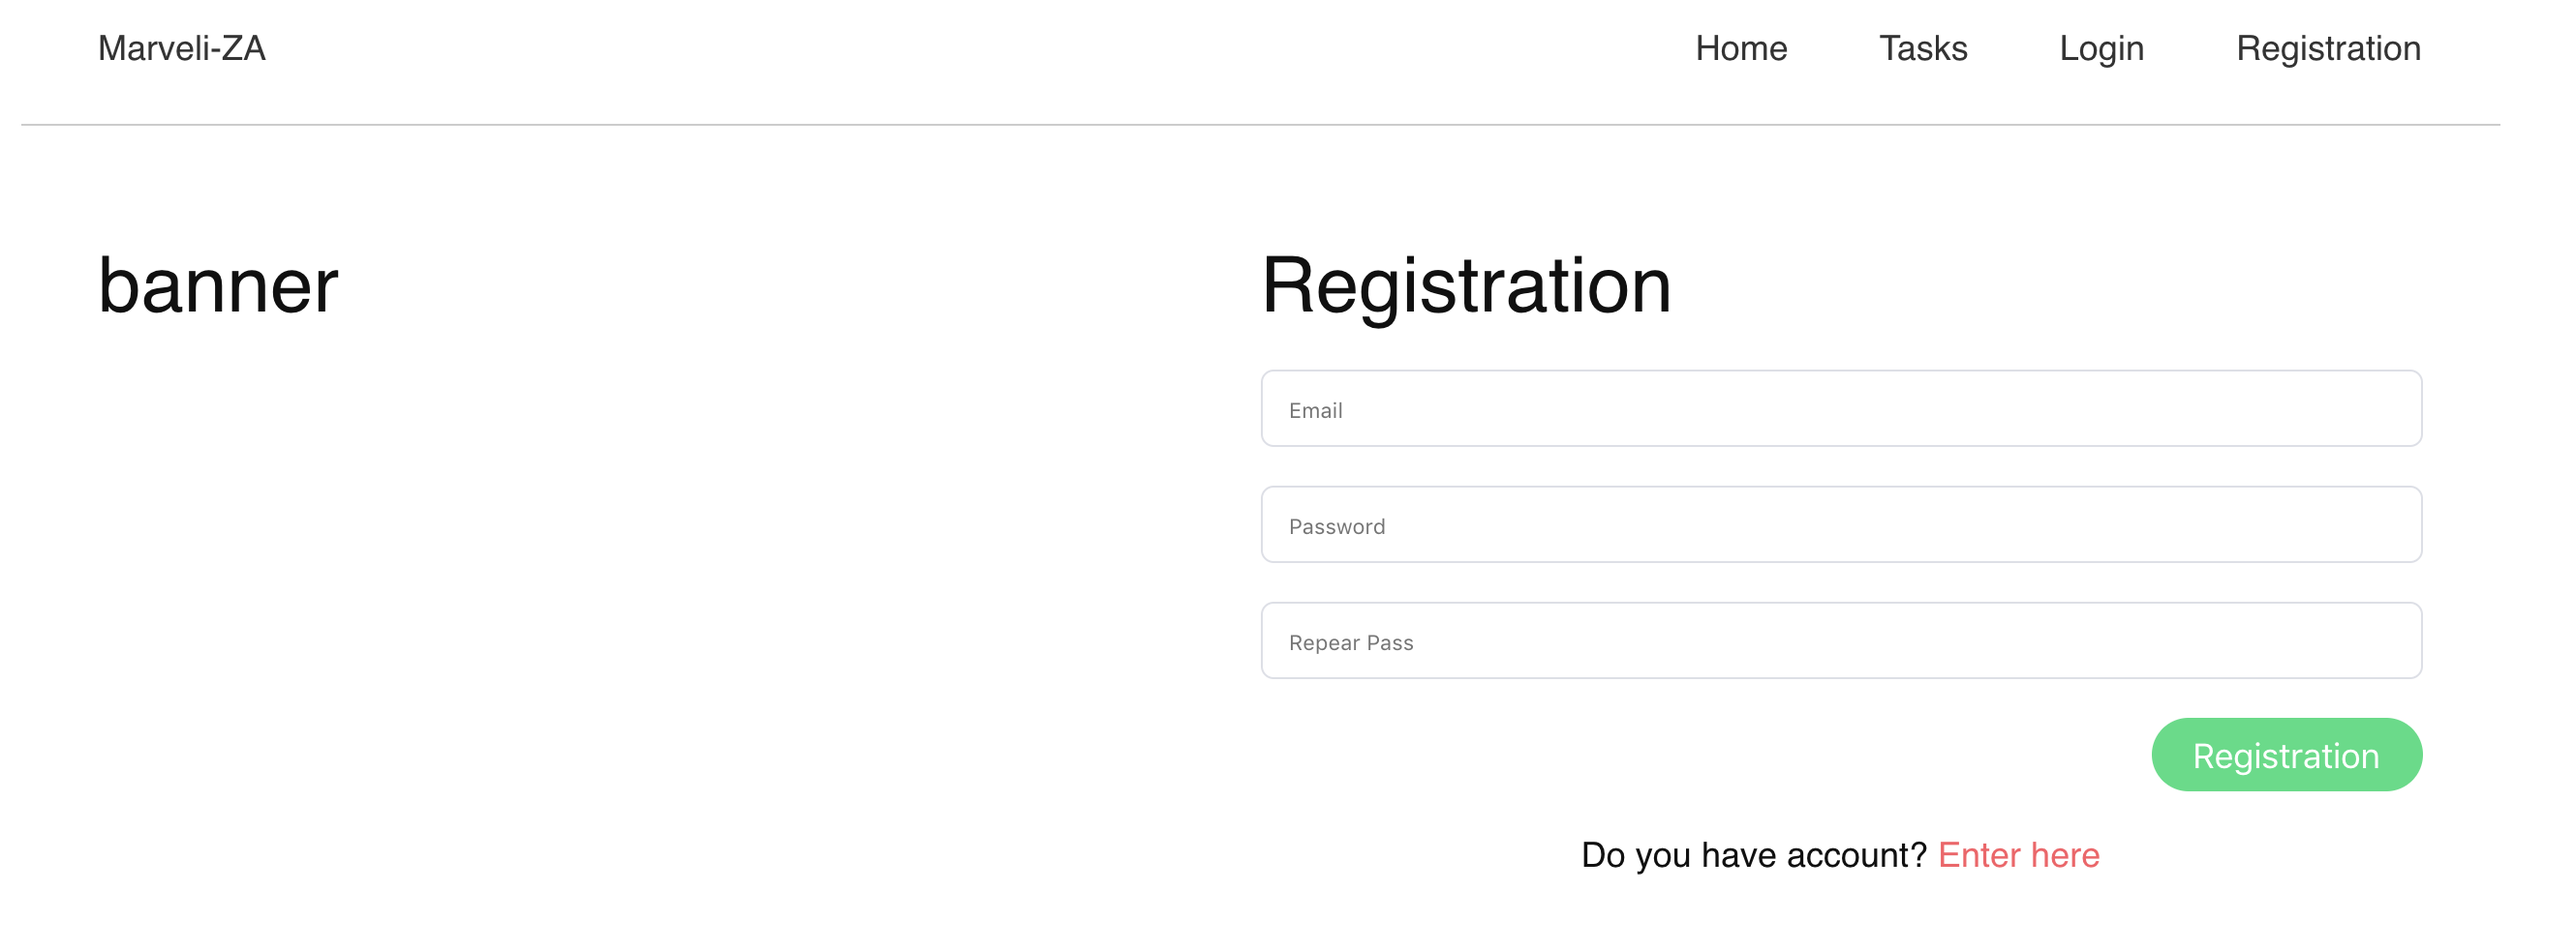
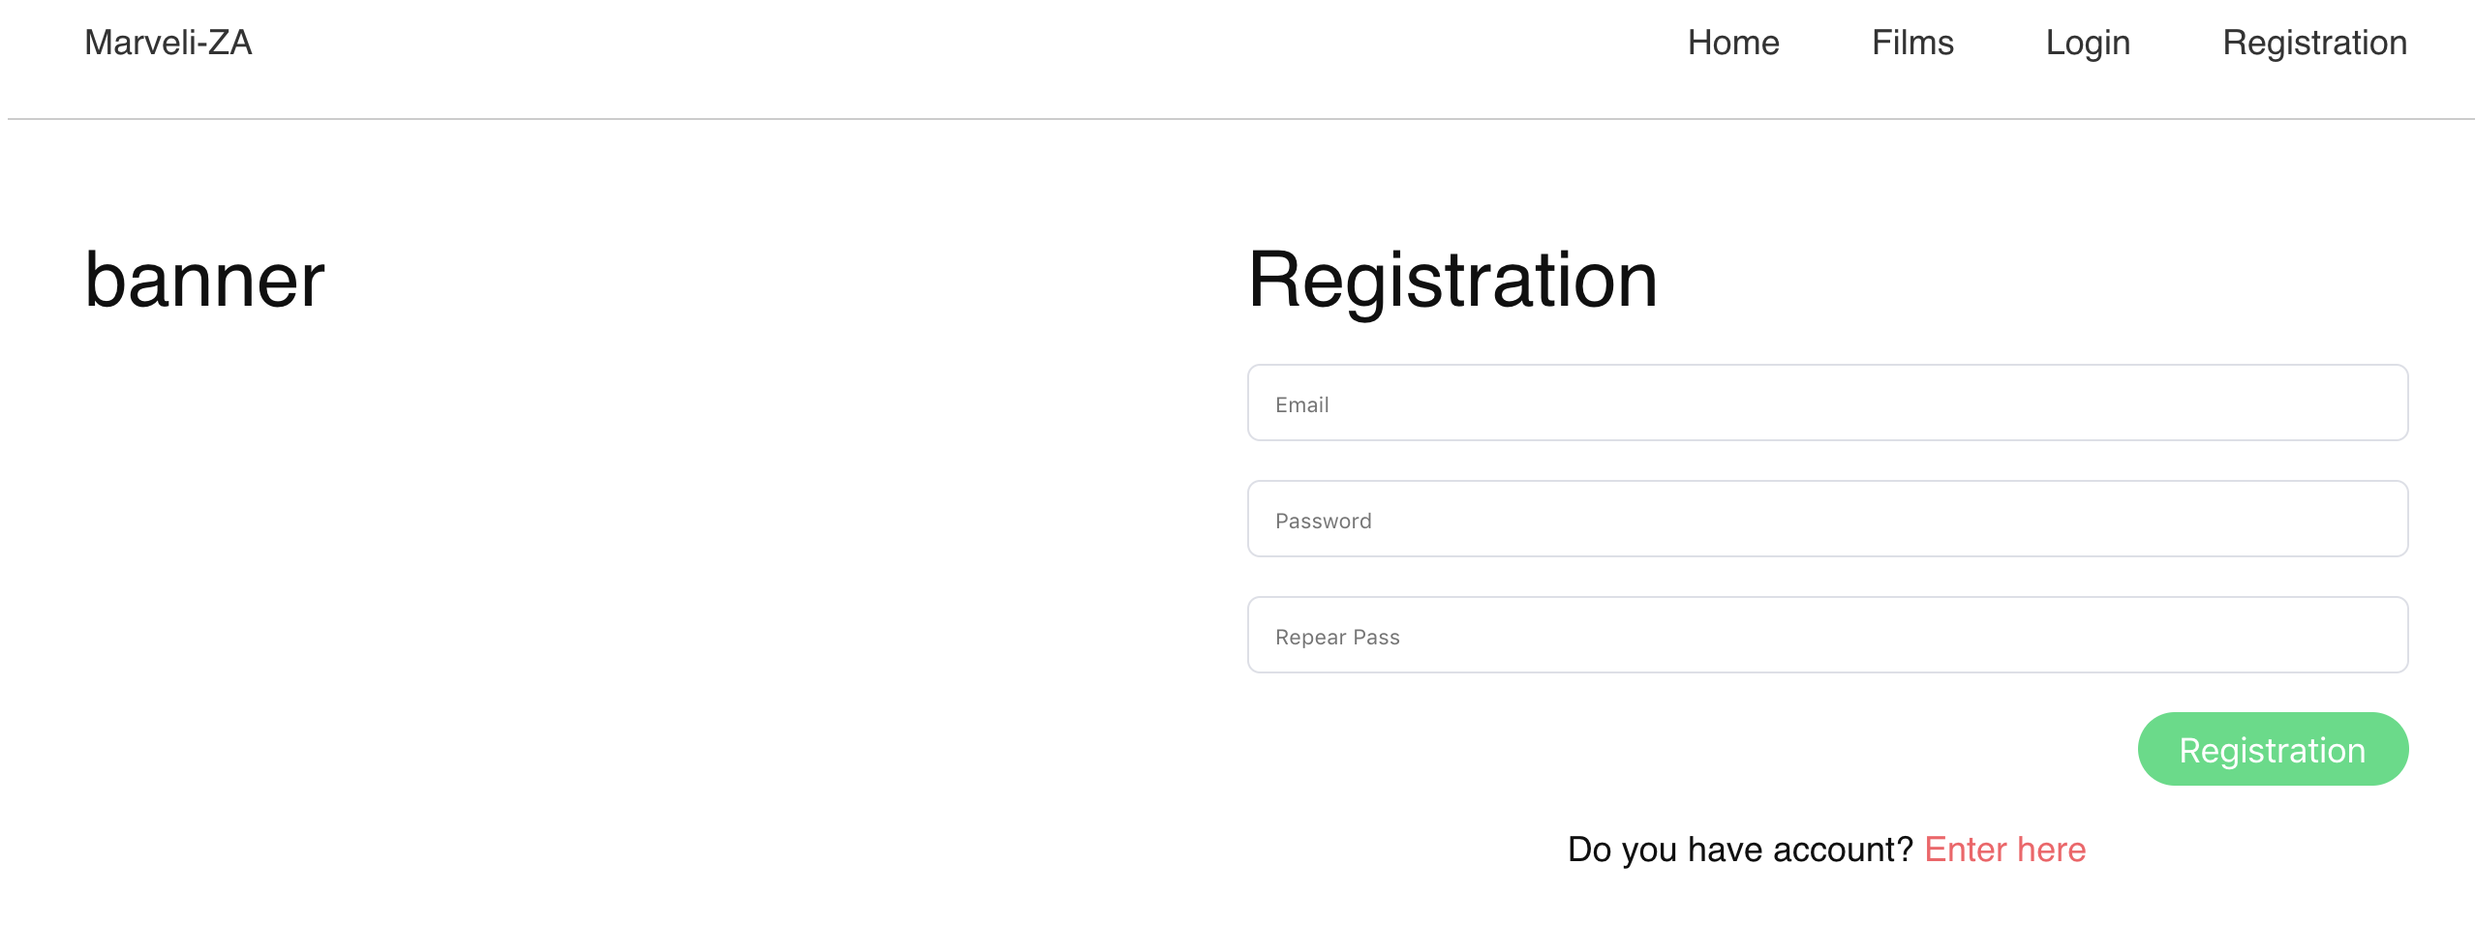
_sec

diff --git a/src/App.vue b/src/App.vue
@@ -36,7 +36,7 @@ export default {
       menuShow: false,
       linkMenu: [
         {tittle: 'Home', url: '/'},
-        {tittle: 'Tasks', url: '/task'},
+        {tittle: 'Films', url: '/task'},
         {tittle: 'Login', url: '/login'},
         {tittle: 'Registration', url: '/registration'}
       ]

diff --git a/src/components/Task.vue b/src/components/Task.vue
@@ -3,7 +3,7 @@
     section
       .container
         .task-list__header
-          h1.ui-title-1 Tasks
+          h1.ui-title-1 Films
           .buttons-list
             p {{ filter }}
             .button.button--round.button-default(

diff --git a/README.md b/README.md
@@ -24,7 +24,12 @@ Circle | [![Circle CI](https://circleci.com/gh/zabolennyi/marveli-za.svg?style=s
 
 ## Demo
 
+### Homepage
 <img src="static/1.png">
+
+### Add film
 <img src="static/2.png">
+
+### List of films/series already wathced/to watch
 <img src="static/3.png">
 
